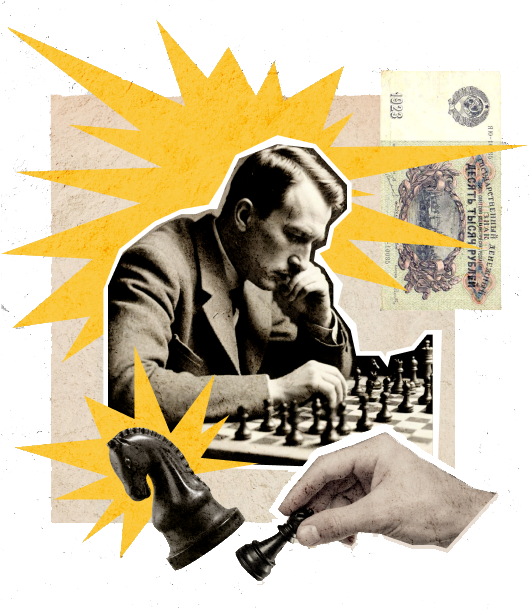
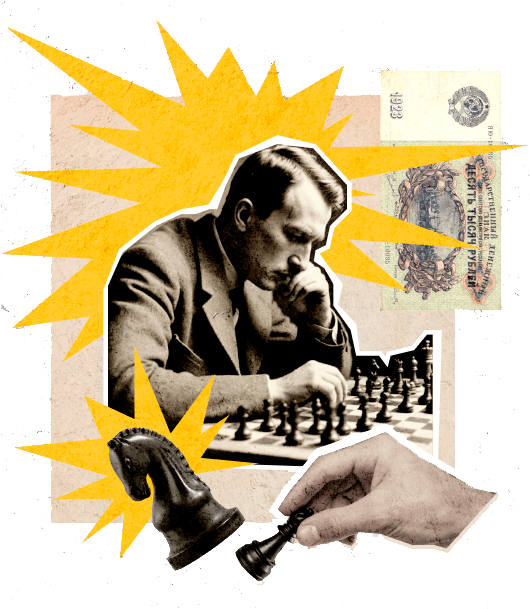
fix: formay code + compress img

Changed region(s): [[0.0302, 0.0624, 0.966, 0.5616], [0.0302, 0.5928, 0.483, 0.9048], [0.1208, 0.5616, 0.1509, 0.5928]]

diff --git a/index.html b/index.html
@@ -36,8 +36,8 @@
 					</p>
 				</div>
 				<div class="button button__box button__box_flex-column">
-					<button class="button__theme button__theme-dark">Поддержать шахматную мысль</button>
-					<button class="button__theme button__theme-white">Подробнее о турнире</button>
+					<button class="button__theme button__theme-dark" ><a class="main__link" href="#support">Поддержать шахматную мысль</a></button>
+					<button class="button__theme button__theme-white"><a class="main__link" href="#more_abour_turnir">Подробнее о турнире</a></button>
 				</div>
 				<div class="overlay"></div>
 			</section>
@@ -60,7 +60,7 @@
 					заседатели! &bull; Дело помощи утопающим — дело рук самих утопающих!
 				</p>
 			</div>
-			<section class="afisha afisha__tourney main__page" aria-label="блок афиши турнира">
+			<section class="afisha afisha__tourney main__page" aria-label="блок афиши турнира" id="support">
 				<p class="afisha__info main__text" id="afisha__tourney">Чтобы поддержать Международный васюкинский турнир</p>
 				<p id="afisha__lection" class="afisha__info main__text">
 					посетите лекцию на тему:
@@ -105,7 +105,7 @@
 				</table>
 				<a href="#" class="main__links">По всем вопросам обращаться в администрацию к К. Михельсону</a>
 			</section>
-			<section class="stages main__page">
+			<section class="stages main__page" id="more_abour_turnir">
 				<div class="stages__info">
 					<h2 class="stages__header">
 						Этапы преображения Васюков
@@ -165,32 +165,43 @@
 						</div>
 					</li>
 					<li class="stages__list_slider">
-						<span class="stages__numder">3</span>
-						<p class="stages__list-text">
-							Поднятие сельского хозяйства в радиусе на тысячу километров: производство овощей, фруктов, икры,
-							шоколадных конфет
-						</p>
+            <div class="stages__list_item">
+              <span class="stages__numder">3</span>
+              <p class="stages__list-text">
+                Поднятие сельского хозяйства в радиусе на тысячу километров: производство овощей, фруктов, икры,
+                шоколадных конфет
+              </p>
+            </div>
 					</li>
 					<li class="stages__list_slider">
-						<span class="stages__numder">4</span>
+            <div class="stages__list_item">
+              <span class="stages__numder">4</span>
 						<p class="stages__list-text">Строительство дворца для турнира</p>
-						<span class="stages__numder">5</span>
-						<p class="stages__list-text">Размещение гаражей для гостевого автотранспорта</p>
+            </div>
+						<div class="stages__list_item">
+              <span class="stages__numder">5</span>
+              <p class="stages__list-text">Размещение гаражей для гостевого автотранспорта</p>
+            </div>
+		
 					</li>
 
 					<li class="stages__list_slider">
-						<span class="stages__numder">6</span>
-						<p class="stages__list-text">
-							Постройка сверхмощной радиостанции для передачи всему миру сенсационных результатов
-						</p>
+            <div class="stages__list_item">
+              <span class="stages__numder">6</span>
+              <p class="stages__list-text">
+                Постройка сверхмощной радиостанции для передачи всему миру сенсационных результатов
+              </p>
+            </div>
 					</li>
 					<li class="stages__list_slider">
-						<span class="stages__numder">7</span>
-						<p class="stages__list-text">
-							Создание аэропорта «Большие Васюки» с регулярным отправлением почтовых самолётов и дирижаблей во все концы
-							света, включая Лос-Анжелос и Мельбурн
-						</p>
-						<img src="./images/plane.png" alt="самолет" class="stages__plane" />
+            <div class="stages__list_item">
+              <span class="stages__numder">7</span>
+              <p class="stages__list-text">
+                Создание аэропорта «Большие Васюки» с регулярным отправлением почтовых самолётов и дирижаблей во все концы
+                света, включая Лос-Анжелос и Мельбурн
+              </p>
+              <img src="./images/plane.png" alt="самолет" class="stages__plane" />
+            </div>
 					</li>
 				</ul>
 				<div id="stages_btn_box" class="button__box">

diff --git a/pages/index.js b/pages/index.js
@@ -18,16 +18,23 @@ document.addEventListener("DOMContentLoaded", function () {
   let currentIndexStages = 0;
   let totalCardsStagesCope = 5;
   let firstCardIndex = 1;
+
+  //  функция для блокировки кнопки
   const disableBtn = (currentCount, totalCount, btn) => currentCount === totalCount ? btn.disabled = true : btn.disabled = false
 
-  cardStagesDots.innerHTML = '';
+  // функция отрисовки точек в слайде блока Stages
+  function createStagesDots() {
+    cardStagesDots.innerHTML = '';
 
-  for (let i = 0; i < totalCardsStagesCope; i++) {
-    const spanElement = document.createElement('span');
-    spanElement.classList.add('button__dots');
-    cardStagesDots.appendChild(spanElement);
+    for (let i = 0; i < totalCardsStagesCope; i++) {
+      const spanElement = document.createElement('span');
+      spanElement.classList.add('button__dots');
+      cardStagesDots.appendChild(spanElement);
+    }
+    return cardStagesDots
   }
 
+  // обновление блока Participants
   function updateUIParticipants() {
     const currentCount = currentIndexParticipants + 1
 
@@ -49,8 +56,9 @@ document.addEventListener("DOMContentLoaded", function () {
       calcTransformParticipants()
     }
   }
-
+  // обновление блока Stages
   function updateUIStages() {
+    const dots = cardStagesDots.querySelectorAll('.button__dots');
     const currentCount = currentIndexStages + 1
     disableBtn(currentCount, totalCardsStagesCope, nextButtonStages)
     disableBtn(currentCount, firstCardIndex, prevButtonStages)
@@ -64,7 +72,6 @@ document.addEventListener("DOMContentLoaded", function () {
     });
 
     // Обновляем активную точку
-    const dots = cardStagesDots.querySelectorAll('.button__dots');
     dots.forEach((dot, index) => {
       if (index === currentIndexStages) {
         dot.classList.add('button__dots_active');
@@ -127,6 +134,7 @@ document.addEventListener("DOMContentLoaded", function () {
     updateUIStages();
   });
 
+  createStagesDots()
   updateUIParticipants();
   updateUIStages();
 });

diff --git a/pages/index.css b/pages/index.css
@@ -8,6 +8,7 @@
 @import url('../blocks/main/__page/main__page.css');
 @import url('../blocks/main/__text/main__text.css');
 @import url('../blocks/main/__links/main__links.css');
+@import url('../blocks/main/__link/main__link.css');
 @import url('../blocks/main/__text/_important-red/main__text_important-red.css');
 /* CONTENT */
 @import url('../blocks/content/content.css');

diff --git a/blocks/content/content.css b/blocks/content/content.css
@@ -5,7 +5,7 @@
   box-sizing: border-box;
   display: flex;
   flex-direction: column;
-  padding-bottom: 118px;
+  padding-bottom: 114px;
 }
 
 @media screen and (max-width: 376px) {

diff --git a/blocks/stages/__plane/stages__plane.css b/blocks/stages/__plane/stages__plane.css
@@ -6,9 +6,6 @@
 
 @media screen and (max-width: 376px) {
   .stages__plane {
-    width: 317.2px;
-    height: 123.75px;
-    top: -25%;
-    right: -10%;
+    display: none;
   }
 }

diff --git a/blocks/stages/__list/_slider/stages__list_slider.css b/blocks/stages/__list/_slider/stages__list_slider.css
@@ -20,5 +20,6 @@
 
   .stages__list_slider_active {
     display: flex;
+    padding-top: 62px;
   }
 }

diff --git a/blocks/stages/__list/_item/stages__list_item.css b/blocks/stages/__list/_item/stages__list_item.css
@@ -1,4 +1,5 @@
 .stages__list_item {
   display: flex;
   gap: 10px;
+  flex-direction: initial;
 }

diff --git a/blocks/main/__link/main__link.css b/blocks/main/__link/main__link.css
@@ -1,0 +1,4 @@
+.main__link{
+  text-decoration: none;
+  color: inherit;
+}

diff --git a/blocks/main/main.css b/blocks/main/main.css
@@ -3,3 +3,4 @@
   box-sizing: border-box;
   overflow: hidden;
 }
+

diff --git a/README.md b/README.md
@@ -1,0 +1,15 @@
+# Клуб четырех коней 
+
+### Краткое описание
+Тестовая работа на вакансию верстальщик лендингов на тему Международного васюкинского турнира по шахматам.
+
+### В работе применены технологии:
+- HTML
+- JS
+- CSS
+- BEM
+- Pixel Perfect 
+- Adaptive layout ( 765px, 1366px )
+
+
+
